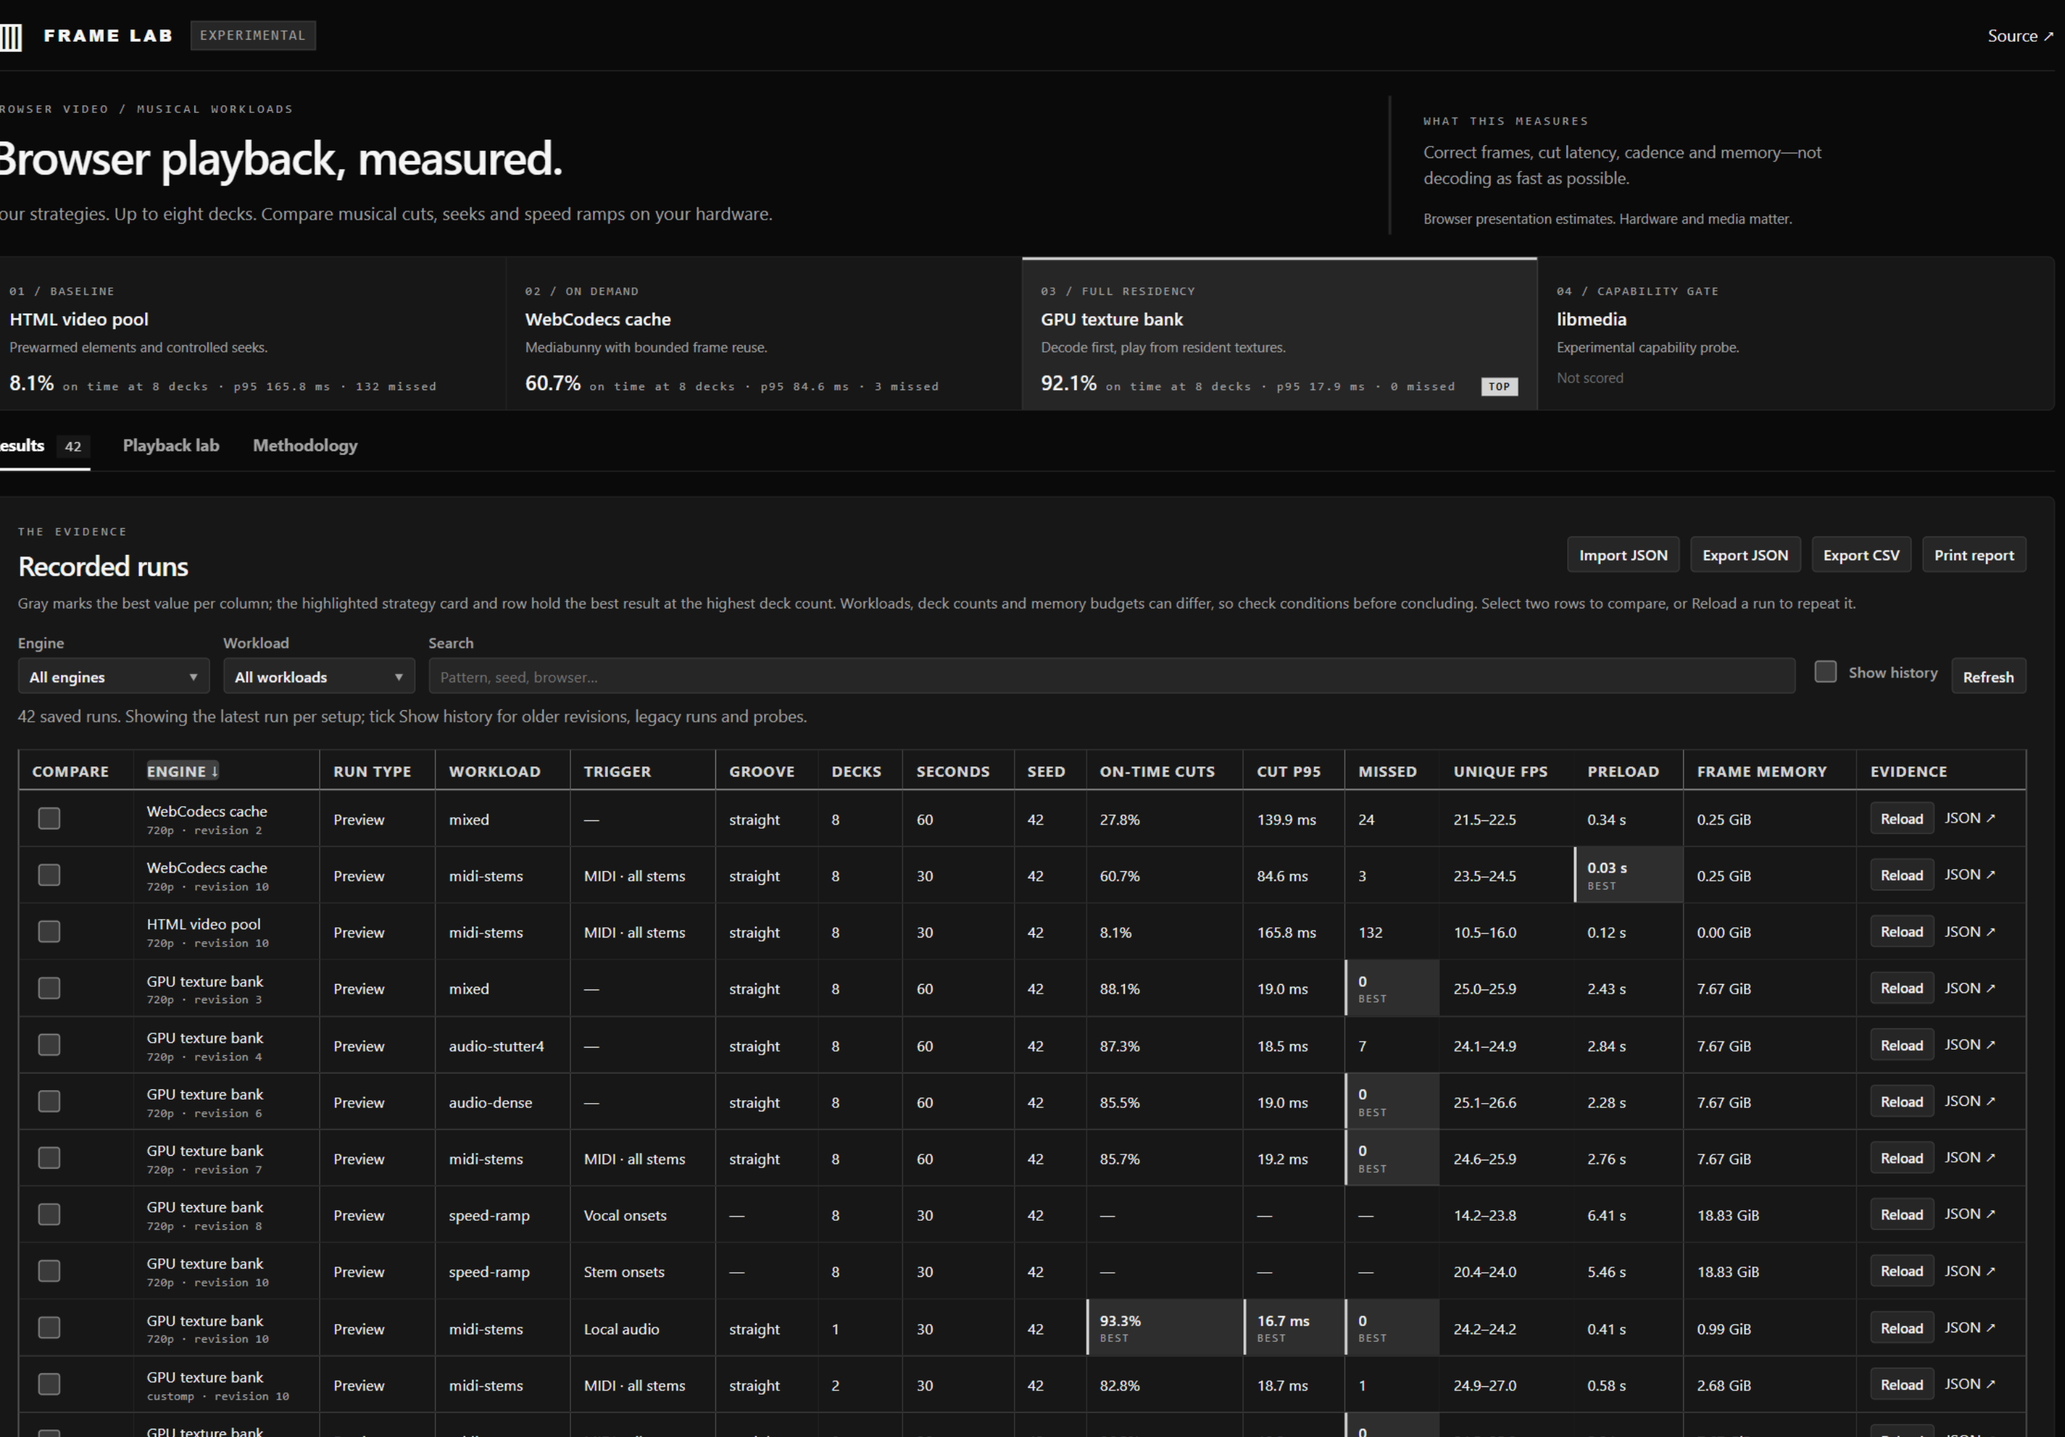
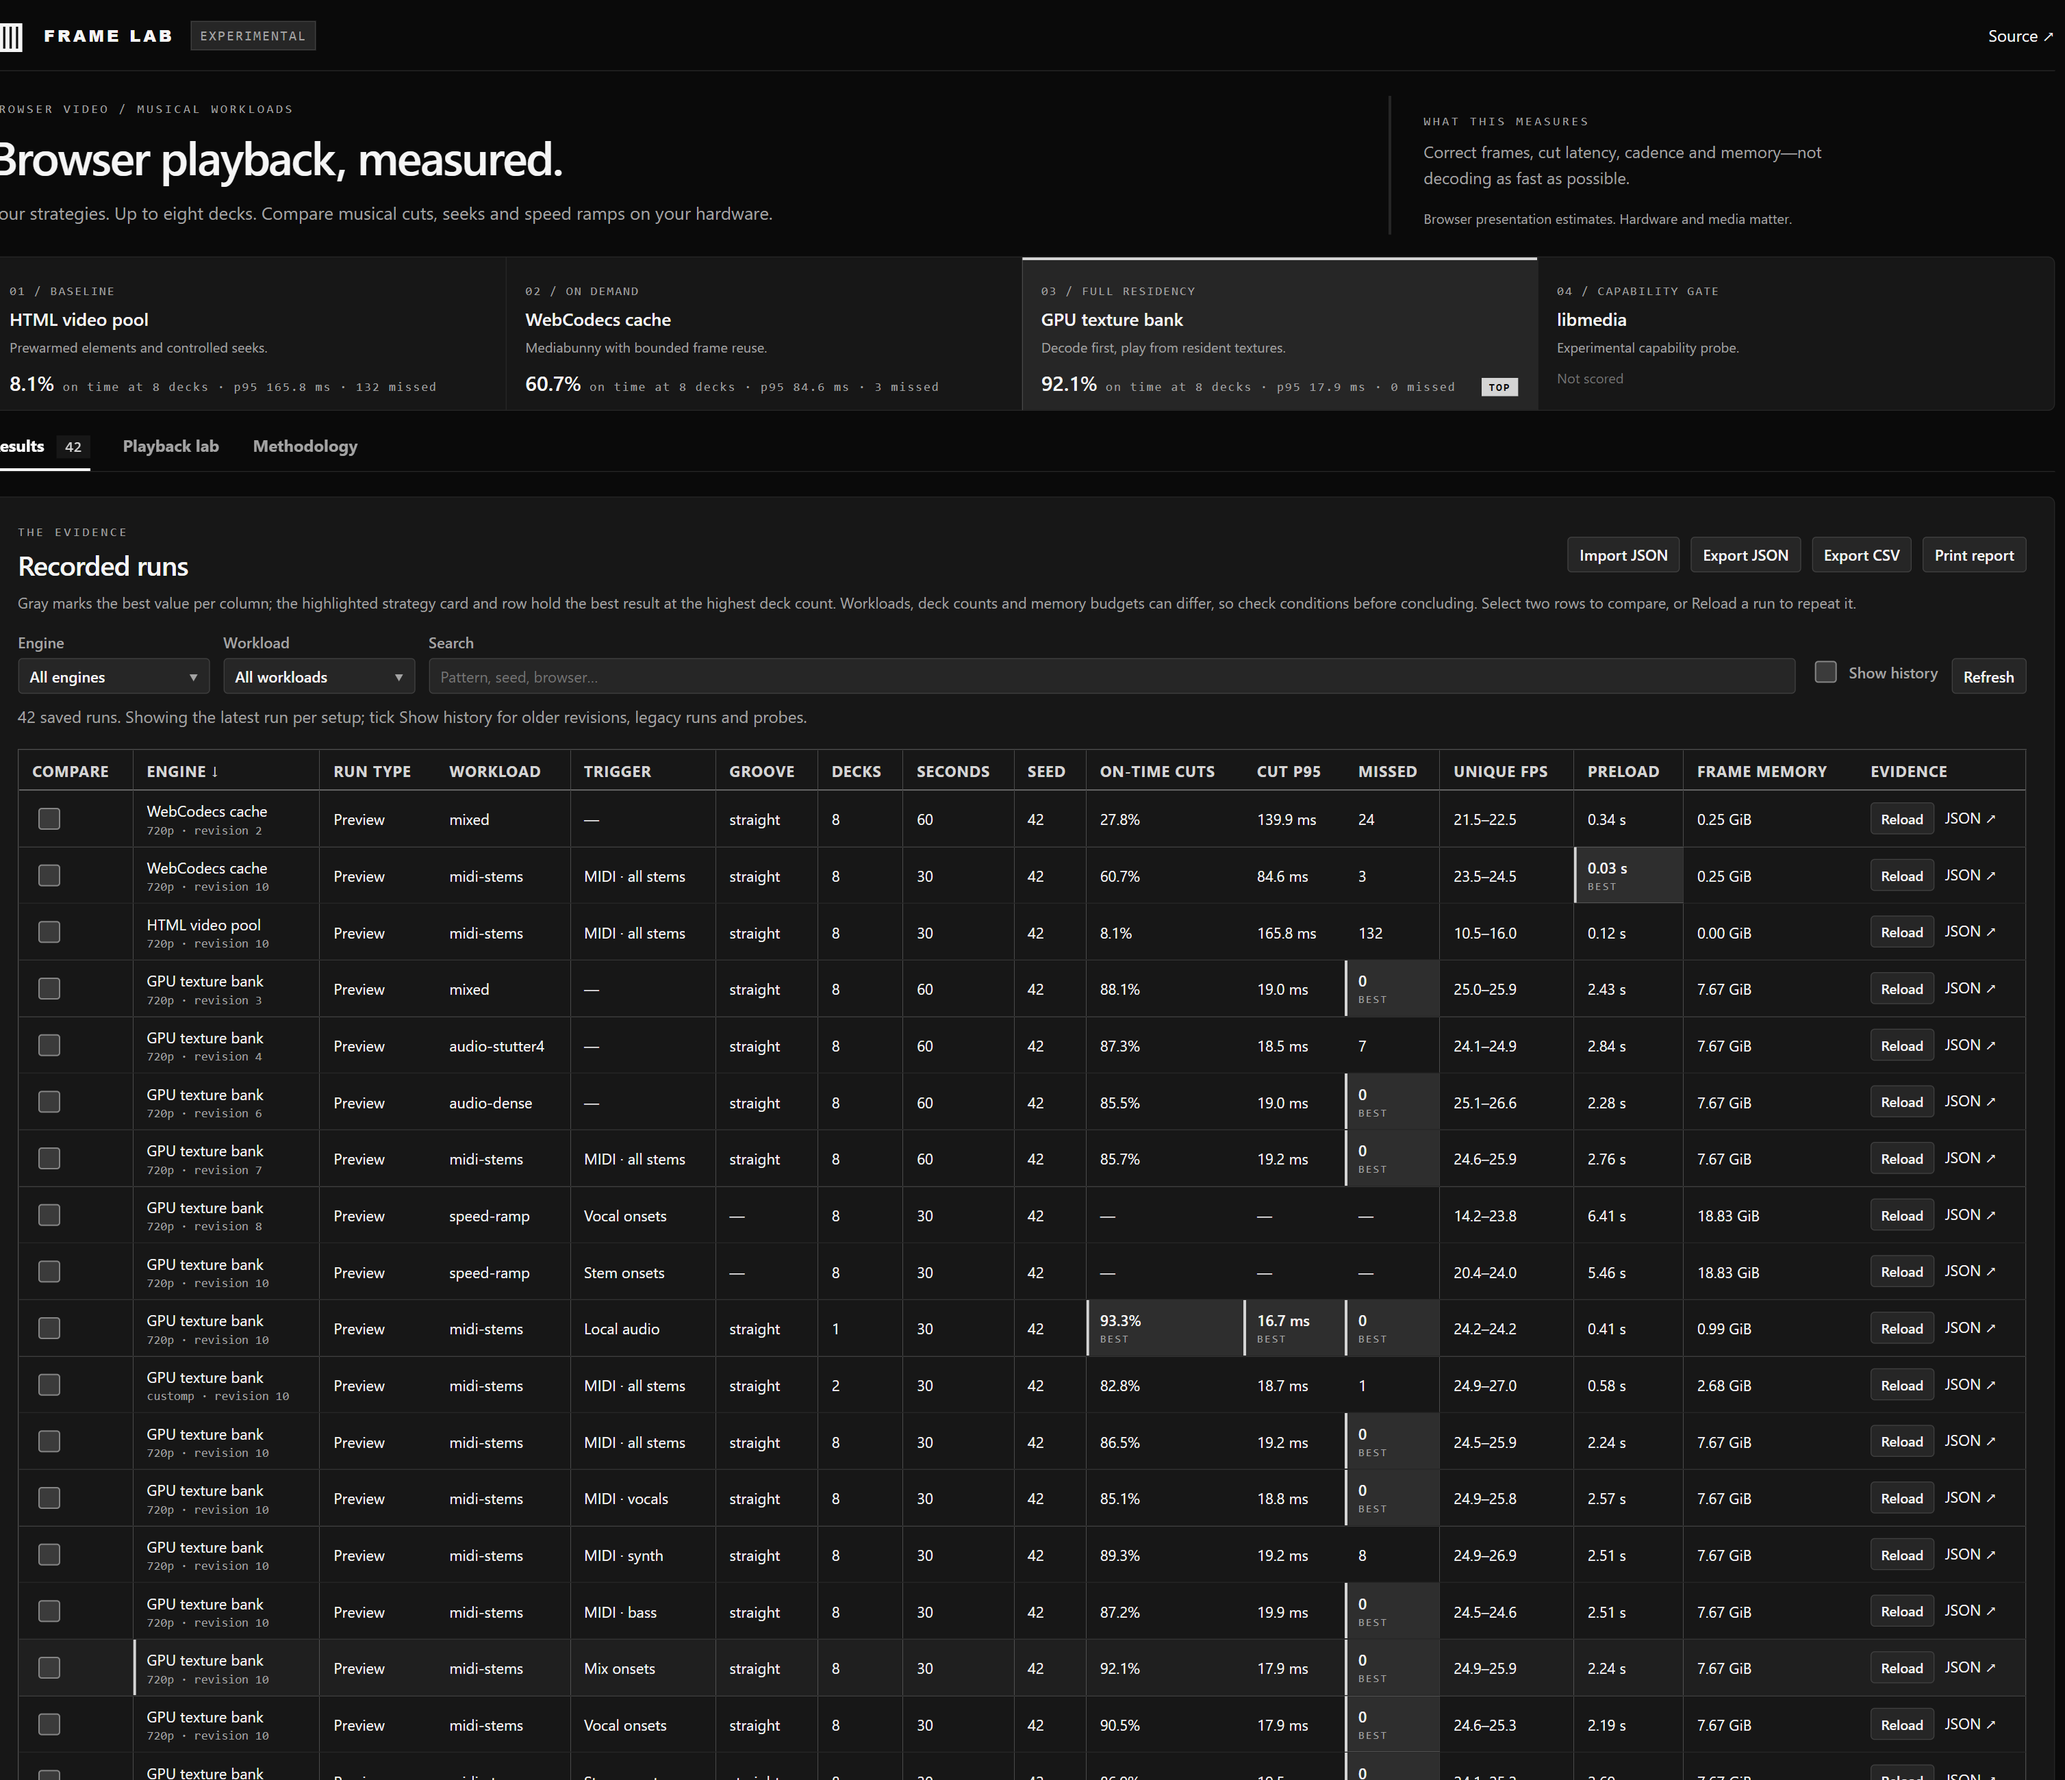
Match both app captures to identical header framing and dimensions

diff --git a/src/variations/editorial/ImageViewer.svelte b/src/variations/editorial/ImageViewer.svelte
@@ -16,7 +16,7 @@
 <p class="label mt-3 text-zinc-500" aria-live="polite">{selected + 1} / {images.length} — {selected === 0 ? 'Benchmark results' : 'Playback view'}</p>
 
 <style>
-  .image-viewer { position: relative; aspect-ratio: 1508 / 1050; background: #0a0a0a; }
+  .image-viewer { position: relative; aspect-ratio: 1508 / 1300; background: #0a0a0a; }
   .image-stage { position: absolute; inset: 0; overflow: hidden; }
   .image-arrow {
     position: absolute; top: 50%; transform: translateY(-50%);
